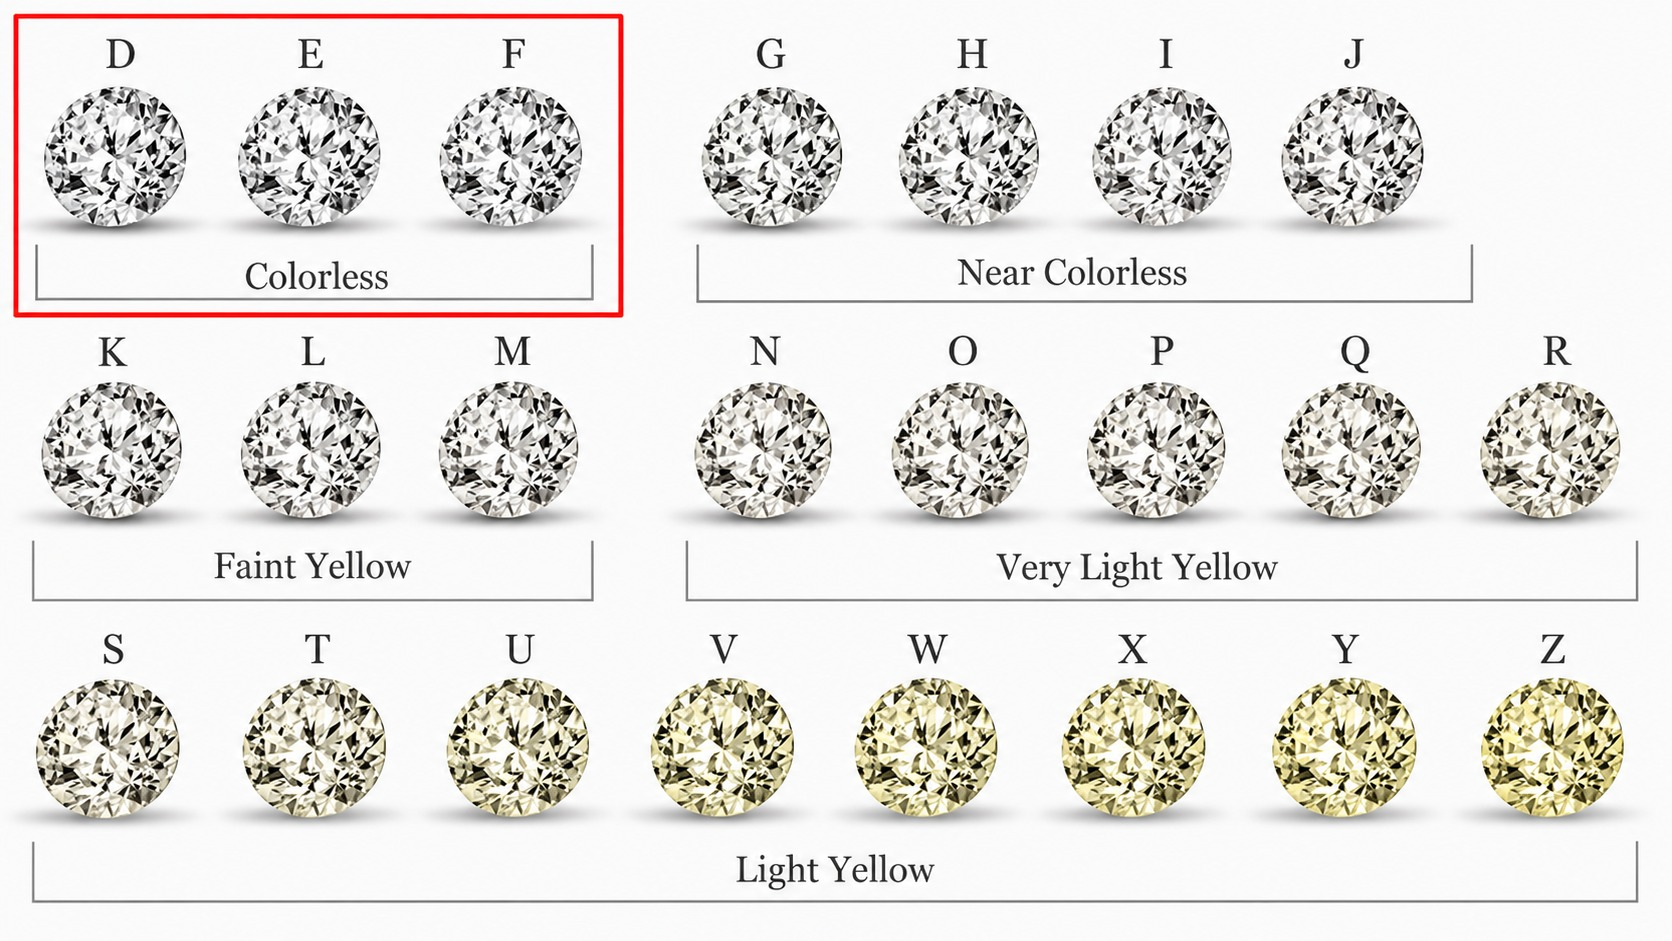
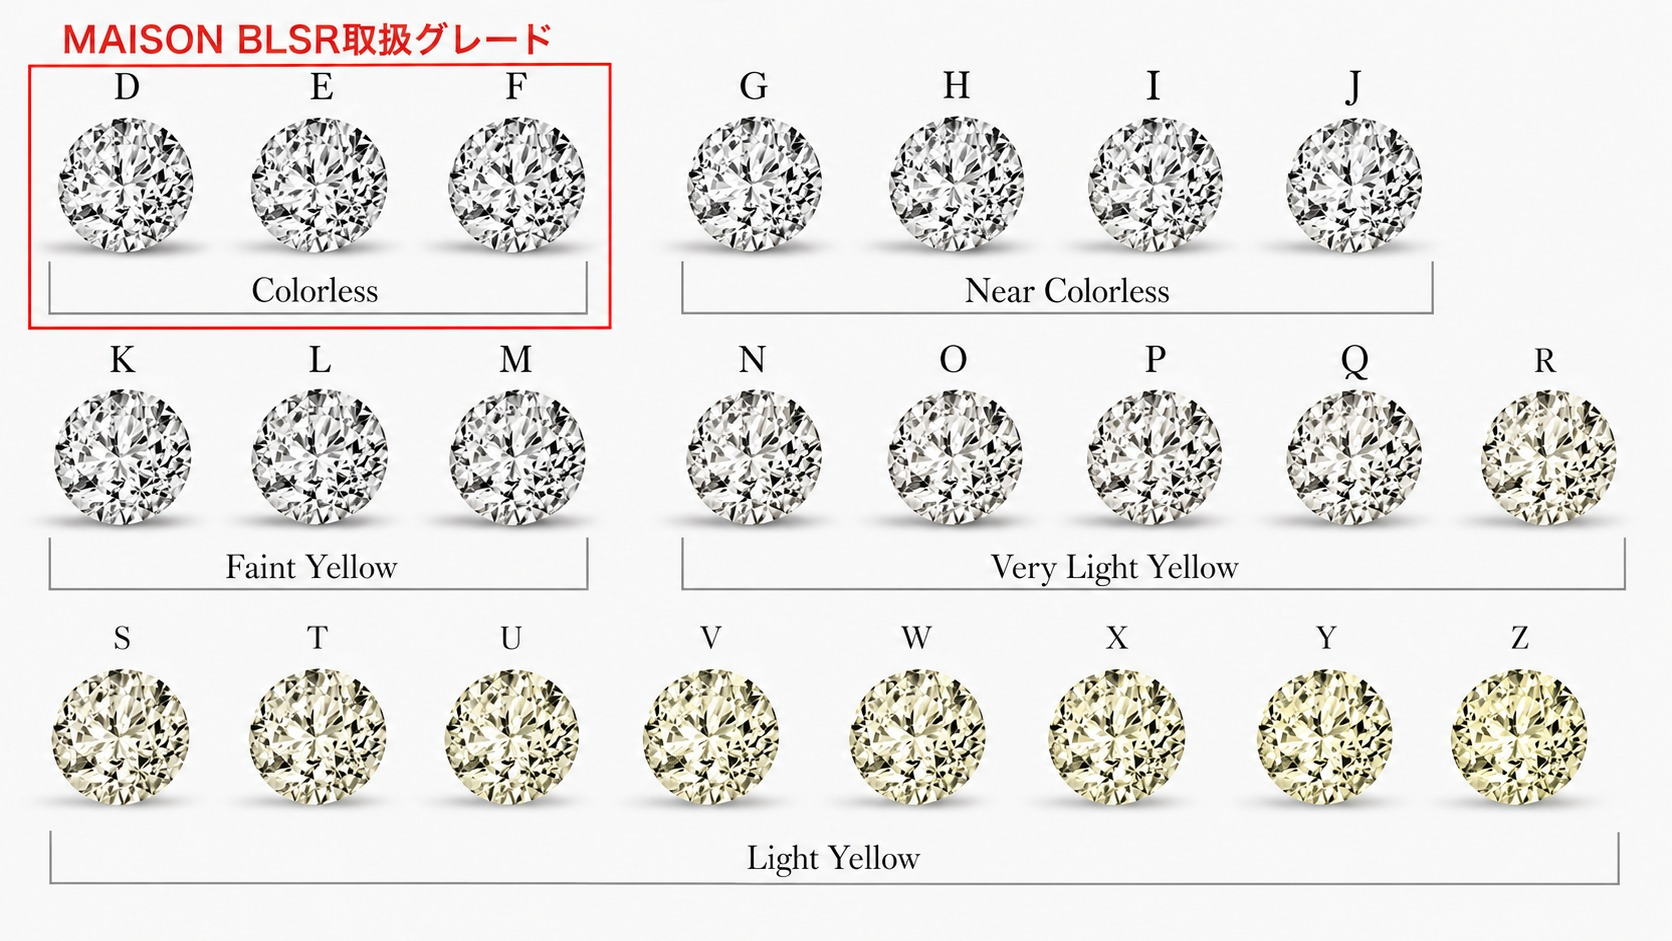
Pierce release: color chart → 図13_3 (BLSR label style unified)
Client supplied 図13_3.png with the same "MAISON BLSR取扱グレード"
red label + red rectangle styling now used on the clarity/cut/size
charts, applied to D/E/F (Colorless). Replaced
pierce-assets/zu/13-chart-color.jpg and bumped its <img src> query
to ?v=3 so browsers fetch the new file.

Changed region(s): [[0.0, 0.0308, 0.9952, 0.9862], [0.0, 0.0, 0.3732, 0.6472], [0.9641, 0.8937, 0.9952, 0.9245]]

diff --git a/pierce-release.html b/pierce-release.html
@@ -1246,7 +1246,7 @@ body::before{
     <div class="chart-list">
       <figure class="chart">
         <figcaption class="chart__title">Color &nbsp;<span class="chart__title-jp">— カラー</span></figcaption>
-        <div class="chart__img"><img src="pierce-assets/zu/13-chart-color.jpg?v=2" alt="Color Chart D-Z"></div>
+        <div class="chart__img"><img src="pierce-assets/zu/13-chart-color.jpg?v=3" alt="Color Chart D-Z"></div>
         <p class="chart__range">
           <span class="chart__range-label">BLSR 取扱範囲</span>
           <span class="chart__range-em">D — F</span>
